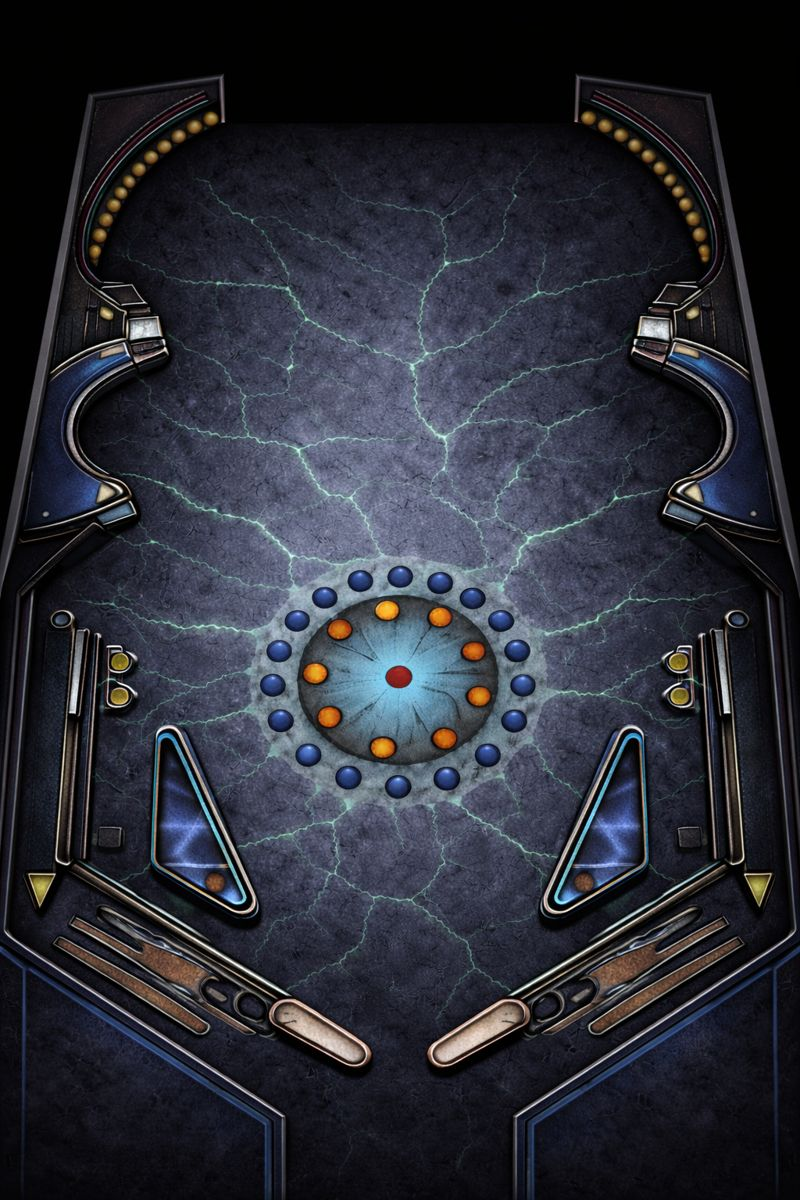
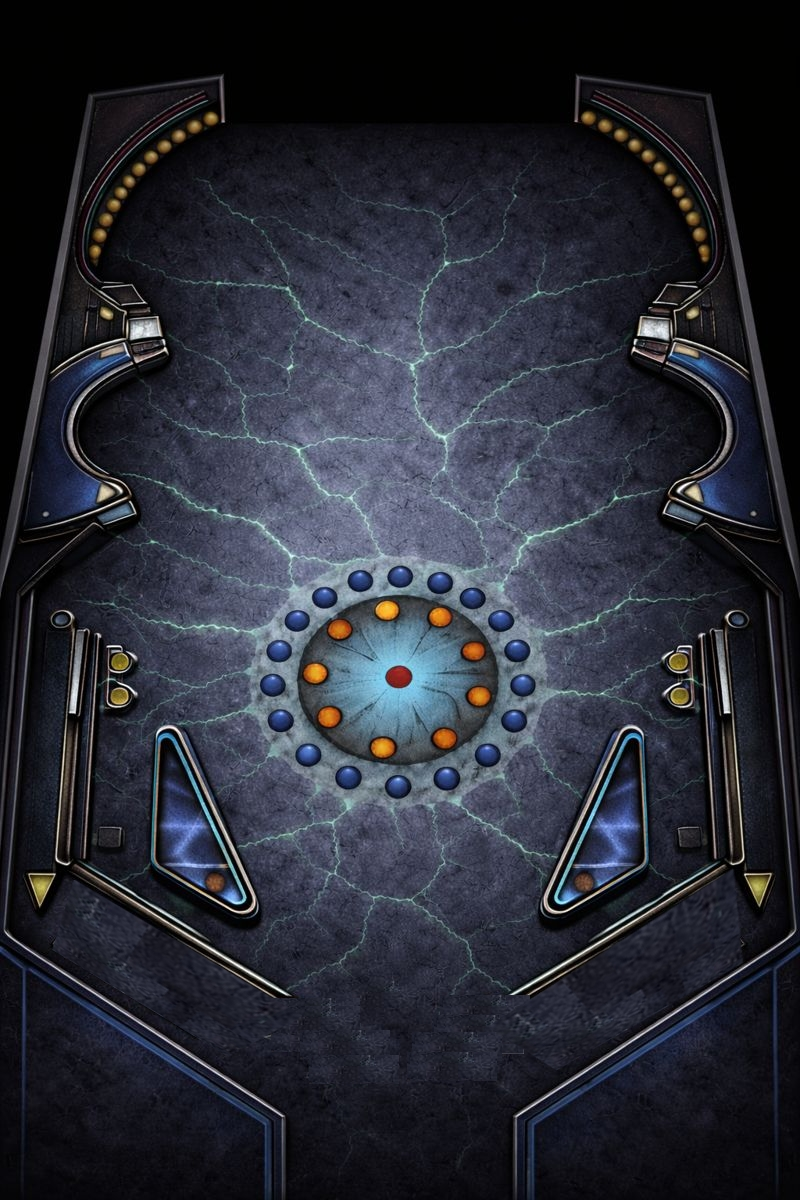
Added flippers

Changed region(s): [[0.5312, 0.7092, 0.9375, 0.8942], [0.0625, 0.74, 0.5, 0.8942]]

diff --git a/css/ball.css b/css/ball.css
@@ -1,74 +1,56 @@
-
-/* Ball */
 .ball {
     position: absolute;
-    width: 16px;
-    height: 16px;
-    /* 1. Core Shadow: Deepened the gradient for more contrast */
-    background: radial-gradient(circle at 35% 35%, #ffffff 0%, #666 40%, #111 100%);
+    width: 20px;
+    height: 20px;
+    background: radial-gradient(circle at 35% 35%, #ffffff 0%, #ff0202 40%, #111 100%);
     border-radius: 50%;
-    
-    /* 2. Form Shadow: Inset shadows create internal depth */
-    box-shadow: 
+    box-shadow:
         inset -2px -2px 4px rgba(0, 0, 0, 0.8),
         inset 1px 1px 1px rgba(255, 255, 255, 0.4);
-        
     z-index: 50;
     left: 172px;
-    top: 140px;
+    bottom: 380px;
 }
 
-/* 3. The Floor Shadow (Contact + Penumbra) */
 .ball::after {
     content: "";
     position: absolute;
-    width: 140%;      /* Wider than the ball for a soft look */
-    height: 40%;       /* Flattened perspective */
+    width: 140%;
+    height: 40%;
     background: rgba(0, 0, 0, 0.6);
     border-radius: 50%;
-    bottom: -15%;      /* Adjusted positioning */
-    left: -20%;        /* Centered relative to the wider width */
-    filter: blur(4px); /* Heavy blur for a soft shadow */
+    bottom: -15%;
+    left: -20%;
+    filter: blur(4px);
     z-index: -1;
-    
-    /* 4. Contact Patch: A second, darker shadow right at the base */
     box-shadow: 0 0 4px 2px rgba(0, 0, 0, 0.8);
 }
+
 /* Flippers */
 .flipper {
     position: absolute;
+    bottom: 47px;
     z-index: 30;
-    bottom: 40px;
+    width: 90px;
+    height: 8px;
 }
 
 .flipper-left {
-    left: 80px;
+    transform: rotate(30deg);
+    left: 83px;
 }
-
 .flipper-right {
-    right: 80px;
+    transform: rotate(-30deg);
+    right: 83px;
 }
 
 .flipper-rod {
-    position: absolute;
-    height: 8px;
-    background: linear-gradient(to bottom, #ffff99, #ffcc00);
-    border-radius: 4px;
-    transform-origin: left center;
-    box-shadow: 0 2px 4px rgba(0, 0, 0, 0.5), inset -1px -1px 0 rgba(0, 0, 0, 0.2);
-}
-
-.flipper-left .flipper-rod {
-    width: 90px;
-    transform-origin: left center;
-    border: 1px solid #ff9900;
-}
-
-.flipper-right .flipper-rod {
-    width: 90px;
-    transform-origin: right center;
-    border: 1px solid #ff9900;
-    margin-left: auto;
+    width: 100%;
+    height: 12px;
+    background-image: url("../images/flipper.png");
+    background-size: 100% 100%; /* stretch to exact width & height */
+    box-shadow: 0 2px 4px rgba(0,0,0,0.5), inset -1px -1px 0 rgba(0,0,0,0.2);
+    border-radius: 15px;
 }
 
 .flipper-left.active .flipper-rod {

diff --git a/js/script.js b/js/script.js
@@ -1,0 +1,40 @@
+let launchBtn = document.getElementById("launch-btn");
+launchBtn.onclick = releaseBall;
+
+function sleep(ms) {
+    return new Promise(resolve => setTimeout(resolve, ms));
+}
+
+async function releaseBall() {
+    console.log("Ball released");
+
+    let ball = document.getElementById("ball");
+    let i = parseInt(window.getComputedStyle(ball).bottom);
+
+
+    while (i >= 0) {
+        ball.style.bottom = i + "px";
+        i--;
+        await sleep(0.00000001)
+    }
+}
+
+addEventListener("keydown",async  (event) => {
+    console.log(event.key)
+    if (event.key === " ") {
+        await triggerFlippers()
+    }
+})
+
+async function triggerFlippers() {
+    let flipperL = document.getElementById("flipper-left");
+    let flipperR = document.getElementById("flipper-right");
+
+    flipperL.classList.add("active");
+    flipperR.classList.add("active");
+
+    await sleep(100)
+
+    flipperL.classList.remove("active");
+    flipperR.classList.remove("active");
+}
